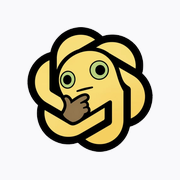
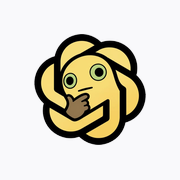
v1.1.0：私有签名 + 图标再缩小
- 密钥不再入库：新密钥仅存本地与 GitHub Secrets（加密），
  CI 从 Secrets 解码 keystore、密码走环境变量
- 移除公开的 mealmeter-debug.keystore 及其 gitignore 例外
- 本地无密钥文件时退回默认调试签名（陌生人克隆可自签构建）
- 图标内容占比再降一档（0.70→0.62 全套同步）
- versionName 1.1.0

Changed region(s): [[0.1389, 0.1389, 0.8611, 0.8611]]

diff --git a/www/sw.js b/www/sw.js
@@ -1,4 +1,4 @@
-const CACHE = 'mealmeter-v27';
+const CACHE = 'mealmeter-v28';
 const ASSETS = [
   './', './index.html', './manifest.json',
   './icon-192.png', './icon-512.png', './icon-maskable-512.png', './apple-touch-icon.png'

diff --git a/tools/make-icons.py b/tools/make-icons.py
@@ -100,30 +100,30 @@ save(content, os.path.join(ROOT, "assets-src", "mascot.png"))
 # ---------- 2. 定义所有输出 ----------
 targets = [
     # web / PWA
-    ("www/icon-192.png",          192, 0.70, False),
-    ("www/icon-512.png",          512, 0.70, False),
-    ("www/icon-maskable-512.png", 512, 0.50, False),
-    ("www/apple-touch-icon.png",  180, 0.70, False),
+    ("www/icon-192.png",          192, 0.62, False),
+    ("www/icon-512.png",          512, 0.62, False),
+    ("www/icon-maskable-512.png", 512, 0.46, False),
+    ("www/apple-touch-icon.png",  180, 0.62, False),
     # Android legacy mipmap
-    ("android/app/src/main/res/mipmap-mdpi/ic_launcher.png",     48,  0.68, False),
-    ("android/app/src/main/res/mipmap-hdpi/ic_launcher.png",     72,  0.68, False),
-    ("android/app/src/main/res/mipmap-xhdpi/ic_launcher.png",    96,  0.68, False),
-    ("android/app/src/main/res/mipmap-xxhdpi/ic_launcher.png",   144, 0.68, False),
-    ("android/app/src/main/res/mipmap-xxxhdpi/ic_launcher.png",  192, 0.68, False),
+    ("android/app/src/main/res/mipmap-mdpi/ic_launcher.png",     48,  0.60, False),
+    ("android/app/src/main/res/mipmap-hdpi/ic_launcher.png",     72,  0.60, False),
+    ("android/app/src/main/res/mipmap-xhdpi/ic_launcher.png",    96,  0.60, False),
+    ("android/app/src/main/res/mipmap-xxhdpi/ic_launcher.png",   144, 0.60, False),
+    ("android/app/src/main/res/mipmap-xxxhdpi/ic_launcher.png",  192, 0.60, False),
     # Android 圆形图标
-    ("android/app/src/main/res/mipmap-mdpi/ic_launcher_round.png",    48,  0.58, True),
-    ("android/app/src/main/res/mipmap-hdpi/ic_launcher_round.png",    72,  0.58, True),
-    ("android/app/src/main/res/mipmap-xhdpi/ic_launcher_round.png",   96,  0.58, True),
-    ("android/app/src/main/res/mipmap-xxhdpi/ic_launcher_round.png",  144, 0.58, True),
-    ("android/app/src/main/res/mipmap-xxxhdpi/ic_launcher_round.png", 192, 0.58, True),
+    ("android/app/src/main/res/mipmap-mdpi/ic_launcher_round.png",    48,  0.52, True),
+    ("android/app/src/main/res/mipmap-hdpi/ic_launcher_round.png",    72,  0.52, True),
+    ("android/app/src/main/res/mipmap-xhdpi/ic_launcher_round.png",   96,  0.52, True),
+    ("android/app/src/main/res/mipmap-xxhdpi/ic_launcher_round.png",  144, 0.52, True),
+    ("android/app/src/main/res/mipmap-xxxhdpi/ic_launcher_round.png", 192, 0.52, True),
     # 启动画面用的高分辨率形象（透明底，nodpi 目录不会按密度缩放）
-    ("android/app/src/main/res/drawable-nodpi/splash_mascot.png", 512, 0.76, False),
+    ("android/app/src/main/res/drawable-nodpi/splash_mascot.png", 512, 0.68, False),
     # Android 自适应图标前景（108dp 画布，内容占 66dp 安全区，背景透明）
-    ("android/app/src/main/res/mipmap-mdpi/ic_launcher_foreground.png",    108, 0.53, False),
-    ("android/app/src/main/res/mipmap-hdpi/ic_launcher_foreground.png",    162, 0.53, False),
-    ("android/app/src/main/res/mipmap-xhdpi/ic_launcher_foreground.png",   216, 0.53, False),
-    ("android/app/src/main/res/mipmap-xxhdpi/ic_launcher_foreground.png",  324, 0.53, False),
-    ("android/app/src/main/res/mipmap-xxxhdpi/ic_launcher_foreground.png", 432, 0.53, False),
+    ("android/app/src/main/res/mipmap-mdpi/ic_launcher_foreground.png",    108, 0.48, False),
+    ("android/app/src/main/res/mipmap-hdpi/ic_launcher_foreground.png",    162, 0.48, False),
+    ("android/app/src/main/res/mipmap-xhdpi/ic_launcher_foreground.png",   216, 0.48, False),
+    ("android/app/src/main/res/mipmap-xxhdpi/ic_launcher_foreground.png",  324, 0.48, False),
+    ("android/app/src/main/res/mipmap-xxxhdpi/ic_launcher_foreground.png", 432, 0.48, False),
 ]
 
 print("\n生成:")
